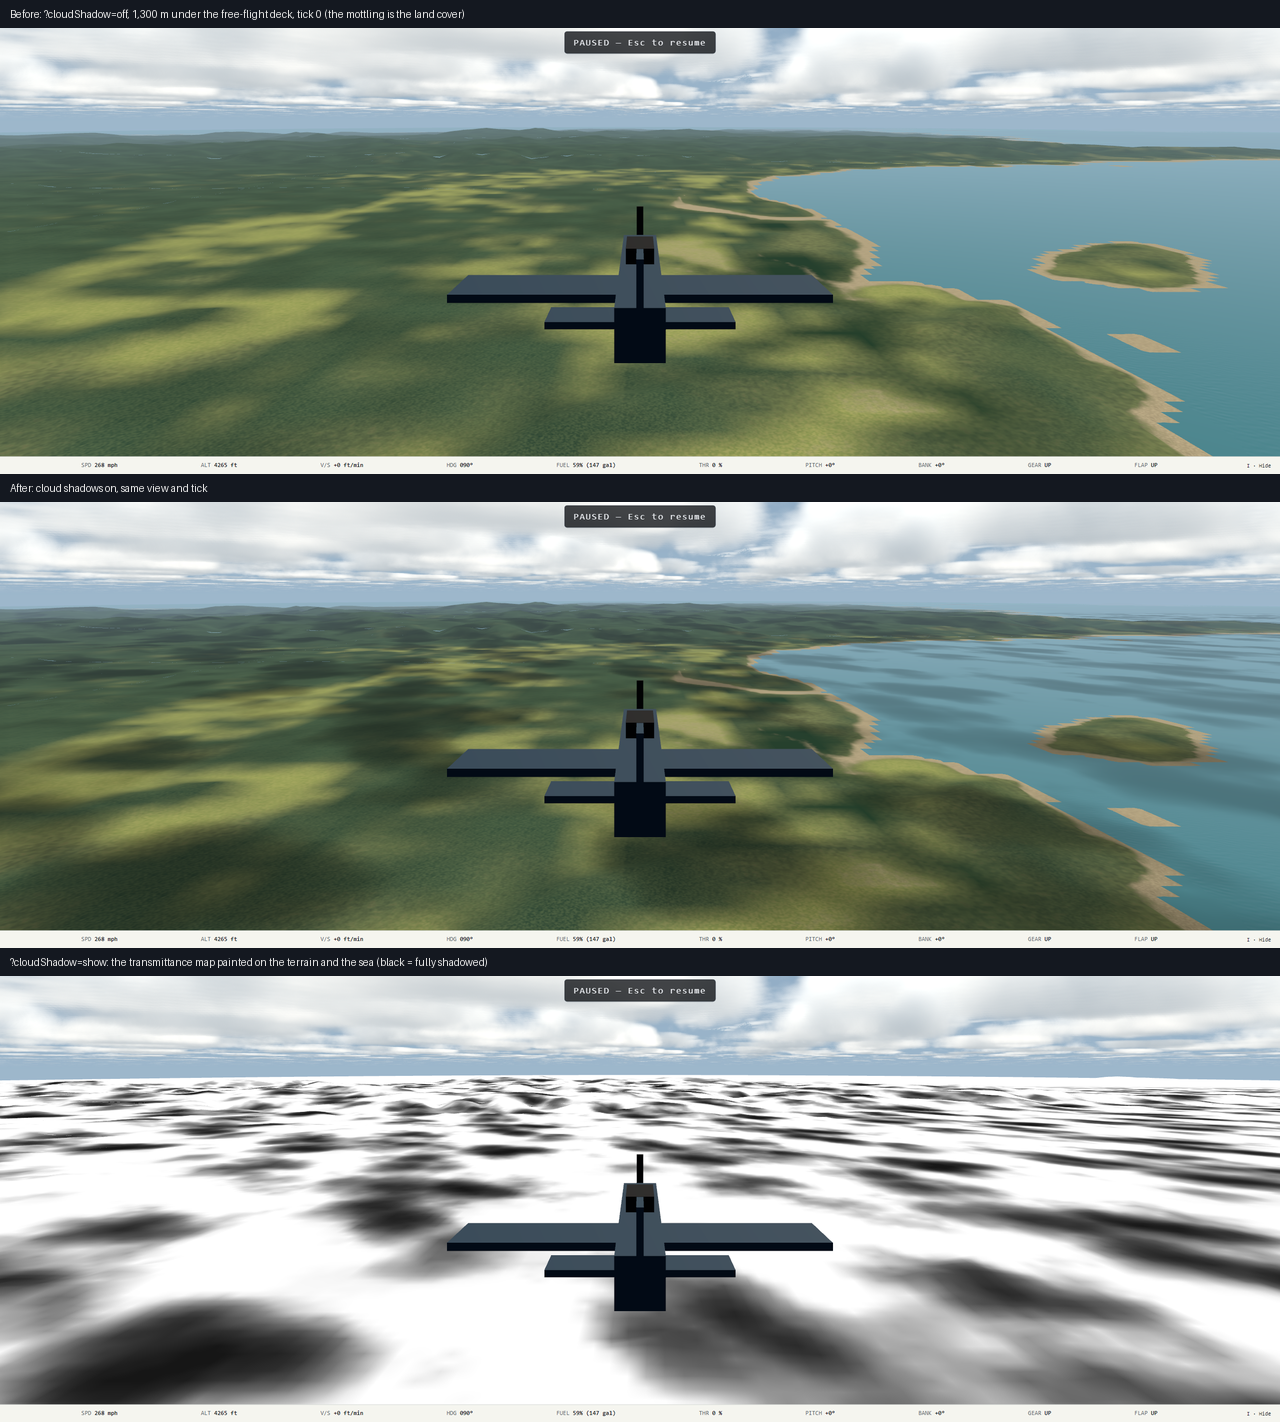
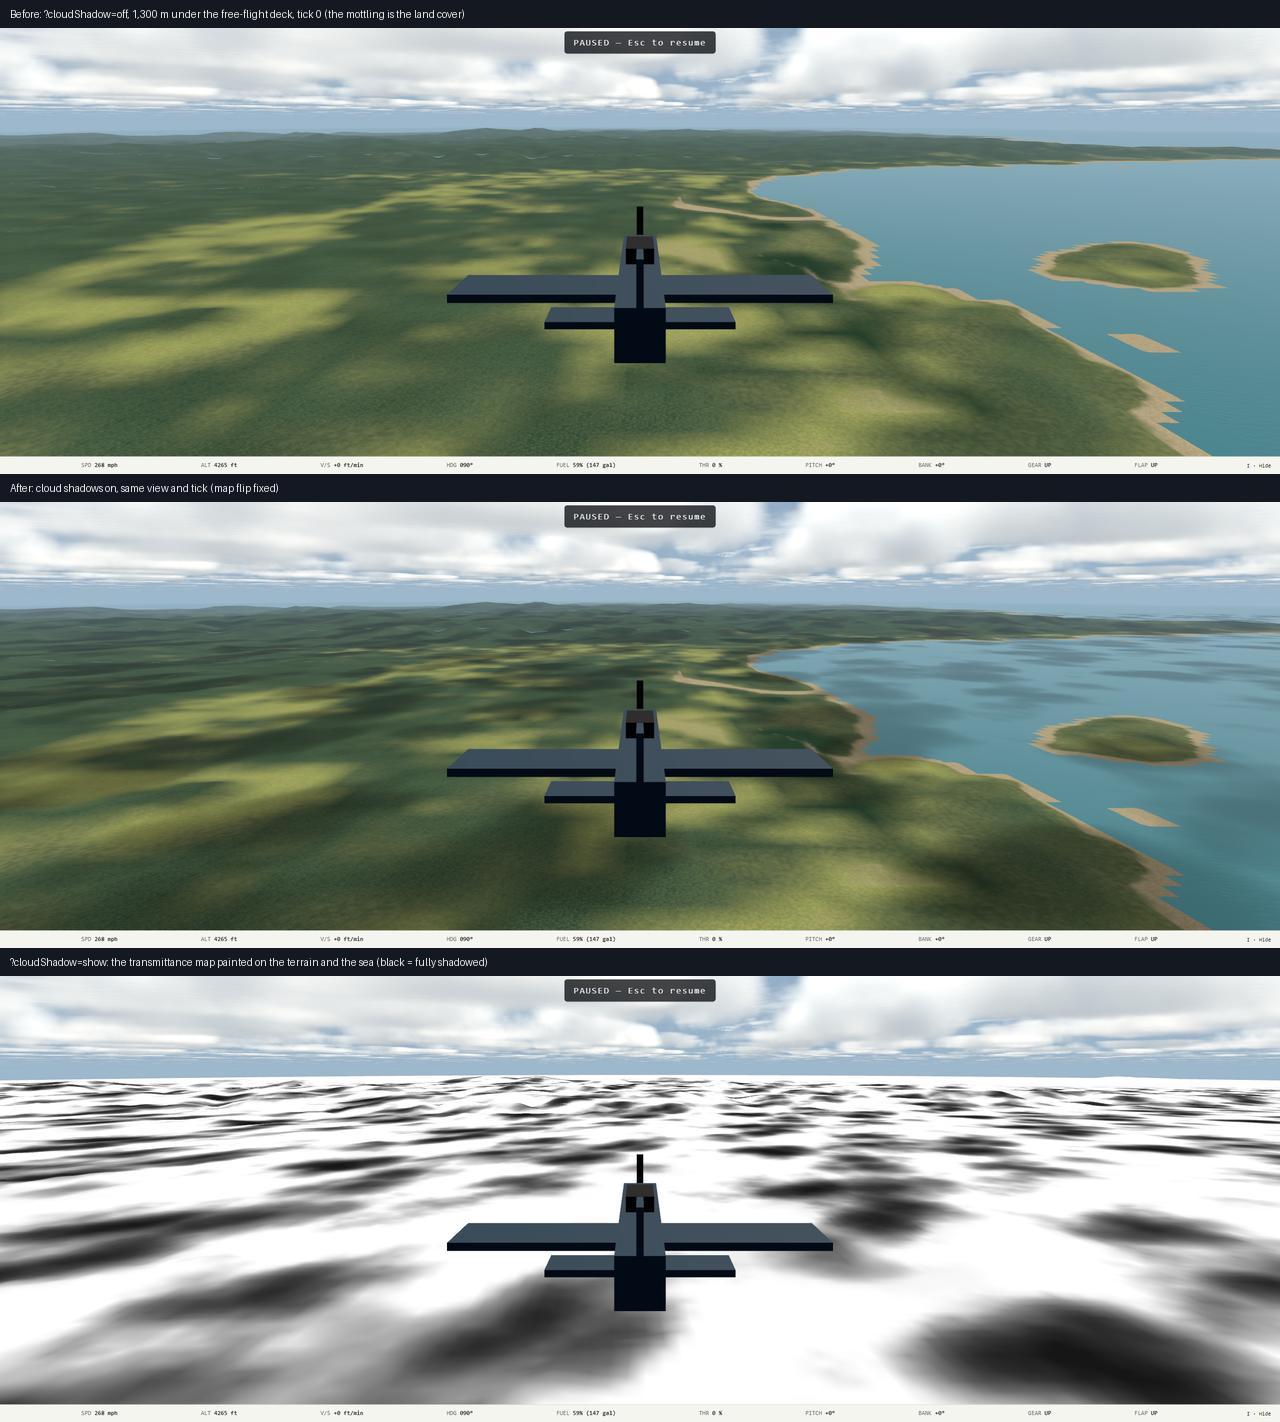
Cloud shadows: the map was mirrored in z about the eye (WebGPU row order, no WGSL Y flip), so shadows rode along with the airplane in 78 m steps; flip the pass, add a world-anchored readback and its Tier 2 case

diff --git a/src/render/scene/cloudShadow.ts b/src/render/scene/cloudShadow.ts
@@ -2,7 +2,7 @@ import {
   ClampToEdgeWrapping, LinearFilter, Mesh, OrthographicCamera, PlaneGeometry, RedFormat, RenderTarget, Scene,
   UnsignedByteType, Vector2,
 } from 'three'
-import { MeshBasicNodeMaterial, type Node } from 'three/webgpu'
+import { MeshBasicNodeMaterial, type Node, type WebGPURenderer } from 'three/webgpu'
 import { Fn, If, Loop, clamp, exp, float, int, max, min, normalize, smoothstep, texture, uniform, uv, vec2, vec3, vec4 } from 'three/tsl'
 import type { Vec3 } from '../../sim/math/vec3.js'
 import { CUMULUS_SIGMA, type CloudField } from './cloudField.js'
@@ -74,6 +74,11 @@ export type CloudShadowHandle = {
   setTier(name: CloudTierName): void
   /** Recenter on the eye (true world metres). Call before rendering the pass. */
   update(eye: Vec3): void
+  /** DEV diagnostic: the map's stored transmittance at a sea-level world point,
+   *  read back through the SAME texel convention the lookup node samples, so a
+   *  fixed world point must read the same value from any eye position. Null
+   *  outside the map or when the pass is disabled. */
+  readAt(renderer: WebGPURenderer, x: number, z: number): Promise<number | null>
   dispose(): void
 }
 
@@ -95,8 +100,15 @@ export function createCloudShadow(field: CloudField, mode?: CloudShadowMode): Cl
   // ---- the pass: one quad, one fragment per texel -------------------------
   const material = new MeshBasicNodeMaterial()
   material.colorNode = Fn(() => {
-    // uv (0,0) is the map's minimum corner; the quad fills the clip square.
-    const ground = mapOrigin.add(uv().mul(MAP_SIDE_M)).toVar()
+    // The quad's uv.y = 1 edge is the TOP of clip space, which WebGPU stores
+    // as texture row 0, which `map.sample(st)` reads at st.y = 0 -- and the
+    // WGSL builder applies no Y flip to render-target samples
+    // (WGSLNodeBuilder.isFlipY() is false). So the texel written at uv.y is
+    // read back at 1 - uv.y: without this flip the map is MIRRORED in z
+    // about the eye's snapped center, and the shadows ride along with the
+    // airplane at twice its speed in 78 m steps (Mark: "choppy", 2026-09-19;
+    // five world points read different T from three eye positions).
+    const ground = mapOrigin.add(vec2(uv().x, float(1).sub(uv().y)).mul(MAP_SIDE_M)).toVar()
     const sun = normalize(sunDirectionNode).toVar()
     const tau = float(0).toVar()
     const tapsF = taps.toFloat().toVar()
@@ -167,6 +179,20 @@ export function createCloudShadow(field: CloudField, mode?: CloudShadowMode): Cl
     get taps() { return taps.value },
     centerXZ: () => ({ ...center }),
     setTier(name: CloudTierName): void { taps.value = SHADOW_TIERS[name].taps },
+    async readAt(renderer: WebGPURenderer, x: number, z: number): Promise<number | null> {
+      if (!enabled) return null
+      const sx = (x - mapOrigin.value.x) / MAP_SIDE_M
+      const sy = (z - mapOrigin.value.y) / MAP_SIDE_M
+      if (sx < 0 || sx >= 1 || sy < 0 || sy >= 1) return null
+      // Sampler coordinates and the copy origin both count rows from the
+      // texture's first row, so this is the texel `map.sample(st)` reads.
+      // Four texels, not one: a 1-byte copy of an r8 texture fails WebGPU's
+      // mapAsync alignment ("Size (1) must be a multiple of 4", 2026-09-19).
+      const px = Math.min(MAP_TEXELS - 4, Math.floor(sx * MAP_TEXELS))
+      const py = Math.min(MAP_TEXELS - 1, Math.floor(sy * MAP_TEXELS))
+      const data = await renderer.readRenderTargetPixelsAsync(target, px, py, 4, 1)
+      return (data[0] ?? 0) / 255
+    },
     update(eye: Vec3): void {
       const c = snapToTexel(eye.x, eye.z)
       center.x = c.x

diff --git a/tests/e2e/cloudShadow.spec.ts b/tests/e2e/cloudShadow.spec.ts
@@ -106,6 +106,30 @@ test('under the deck: the sea is darker and patchier with shadows than without',
   expect(await errors(page)).toEqual([])
 })
 
+test('the map is anchored to the world: a fixed point reads the same transmittance from any eye position', async ({ page }) => {
+  // The check no screenshot can make. Before 2026-09-19's flip fix the pass
+  // wrote row uv.y and the lookup read row 1 - uv.y, so the map was mirrored
+  // in z about the eye's snapped center: five world points read
+  // (1.000 0.027 0.537 0.565 0.047) from one eye and (0.922 0.133 0.031
+  // 0.573 1.000) from an eye 2 km south. Free flight has no wind, so the
+  // field is static and a texel read back through the lookup's own
+  // convention must not change when only the eye moves, in z OR in x.
+  await page.setViewportSize({ width: 1280, height: 720 })
+  const points = [0, 1500, 3000, -2200, 5100].map((d) => ({ x: OVER_GULF.x + d, z: OVER_GULF.z + d * 0.7 }))
+  const reads: number[][] = []
+  for (const eye of [{ dx: 0, dz: 0 }, { dx: 0, dz: 2000 }, { dx: 2500, dz: -3500 }]) {
+    await page.goto(spawnUrl({ x: OVER_GULF.x + eye.dx, y: 1300, z: OVER_GULF.z + eye.dz }))
+    await page.waitForFunction(() => ((window as DiagWindow).__ww2?.groundHeightM() ?? null) !== null, undefined, { timeout: 30_000 })
+    await page.waitForTimeout(800)
+    const vals = await page.evaluate(async (pts) => Promise.all(pts.map((p) => (window as DiagWindow).__ww2!.cloudShadowAt(p.x, p.z))), points)
+    console.log(`eye +${eye.dx}/${eye.dz}: T =`, vals.map((v) => (v === null ? 'null' : v.toFixed(3))).join(' '))
+    reads.push(vals.map((v) => { expect(v, 'point inside the map').not.toBeNull(); return v! }))
+  }
+  expect(Math.max(...reads[0]!) - Math.min(...reads[0]!), 'the points must span shadow and clear sky').toBeGreaterThan(0.3)
+  for (const r of reads.slice(1)) for (let i = 0; i < points.length; i++) expect(Math.abs(r[i]! - reads[0]![i]!)).toBeLessThanOrEqual(1 / 255)
+  expect(await errors(page)).toEqual([])
+})
+
 test('clear sky: the gunnery range is identical with and without the pass', async ({ page }) => {
   await page.setViewportSize({ width: 2560, height: 1440 })
   const range = `/?${SCENARIO_PARAM}=gunnery-range`

diff --git a/src/render/diagnostics.ts b/src/render/diagnostics.ts
@@ -245,6 +245,10 @@ export type Ww2Diagnostics = {
     /** Plan 16b: whether the shadow pass runs, its taps per layer, and the map's side. */
     readonly shadow: { readonly enabled: boolean; readonly taps: number; readonly mapSideM: number }
   }
+  /** Plan 16b: the shadow map's transmittance at a sea-level world point, or
+   *  null outside the map / with the pass off. A fixed point must read the
+   *  same from any eye position: the map is world-anchored, not eye-anchored. */
+  readonly cloudShadowAt: (x: number, z: number) => Promise<number | null>
   readonly resetFrameTimes: () => void
 }
 

diff --git a/src/render/main.ts b/src/render/main.ts
@@ -369,6 +369,9 @@ async function boot(): Promise<void> {
         // Plan 16b: what the shadow pass is doing, for the Tier 2 budget.
         shadow: { enabled: shadow.enabled, taps: shadow.taps, mapSideM: MAP_SIDE_M },
       }),
+      // Plan 16b: the shadow map read back at a world point, for the
+      // world-stability check a screenshot cannot make.
+      cloudShadowAt: (x: number, z: number) => shadow.readAt(renderer, x, z),
       resetFrameTimes: () => {
         cascades.forEach(c => c.resetTimings())
         frameTimesMs.length = 0

diff --git a/docs/handoff/2026-09-19-plan16b-cloud-shadows.md b/docs/handoff/2026-09-19-plan16b-cloud-shadows.md
@@ -91,6 +91,38 @@ sea and land, shifted between the two frames); the deck-quals deck at tick
 clouds, terrain, deck-quals, gunnery and ocean specs were re-run with the
 pass on (31 passed; clouds pixel residual 1.34, deck quals 5.149 ms, terrain frame budget p95 3.245 ms).
 
+## The choppy-shadow bug, found and fixed the same afternoon
+
+Mark flew the close commit (`9911ae8`) and reported the shadows "move very
+choppy". In free flight the wind is zero, so a shadow should not move at
+all as the airplane flies. Root cause: the pass wrote each texel's ground
+position from the quad's `uv.y`, but WebGPU stores the quad's TOP edge
+(uv.y = 1) as texture row 0, which `map.sample(st)` reads at st.y = 0, and
+the WGSL node builder applies no Y flip to render-target samples
+(`WGSLNodeBuilder.isFlipY()` is false). The map was therefore MIRRORED in
+z about the eye's snapped center, so as the airplane flew north or south
+the pattern rode along at twice its speed in 78 m steps. Every acceptance
+case passed over this: the deck test sits near the center where a mirror
+is the identity, the darkening tests are means, and the "pattern moves"
+probe cannot tell 1× from 2×.
+
+Measured with a new DEV readback, `__ww2.cloudShadowAt(x, z)`, which reads
+the map texel through the lookup's own convention. Five fixed world points
+from three eye positions, before the fix:
+
+| Eye z | T at the five points |
+| --- | --- |
+| −55,605 | 1.000 0.027 0.537 0.565 0.047 |
+| −53,605 | 0.922 0.133 0.031 0.573 1.000 |
+| −59,105 | 0.024 0.706 0.059 1.000 1.000 |
+
+After a one-line flip in the pass (`ground.z` from `1 − uv.y`): identical
+rows, `1.000 1.000 0.031 1.000 0.639` from all three. The check is now a
+permanent Tier 2 case (eye moved in z AND in x, tolerance one gray level),
+because it is the one property no screenshot can measure. The readback
+needs a 4-texel-wide copy: a 1-byte copy fails WebGPU's `mapAsync`
+alignment.
+
 ## Rulings and traps
 
 1. **`main.ts` may import the field.** `cloudField.test.ts`'s importer
